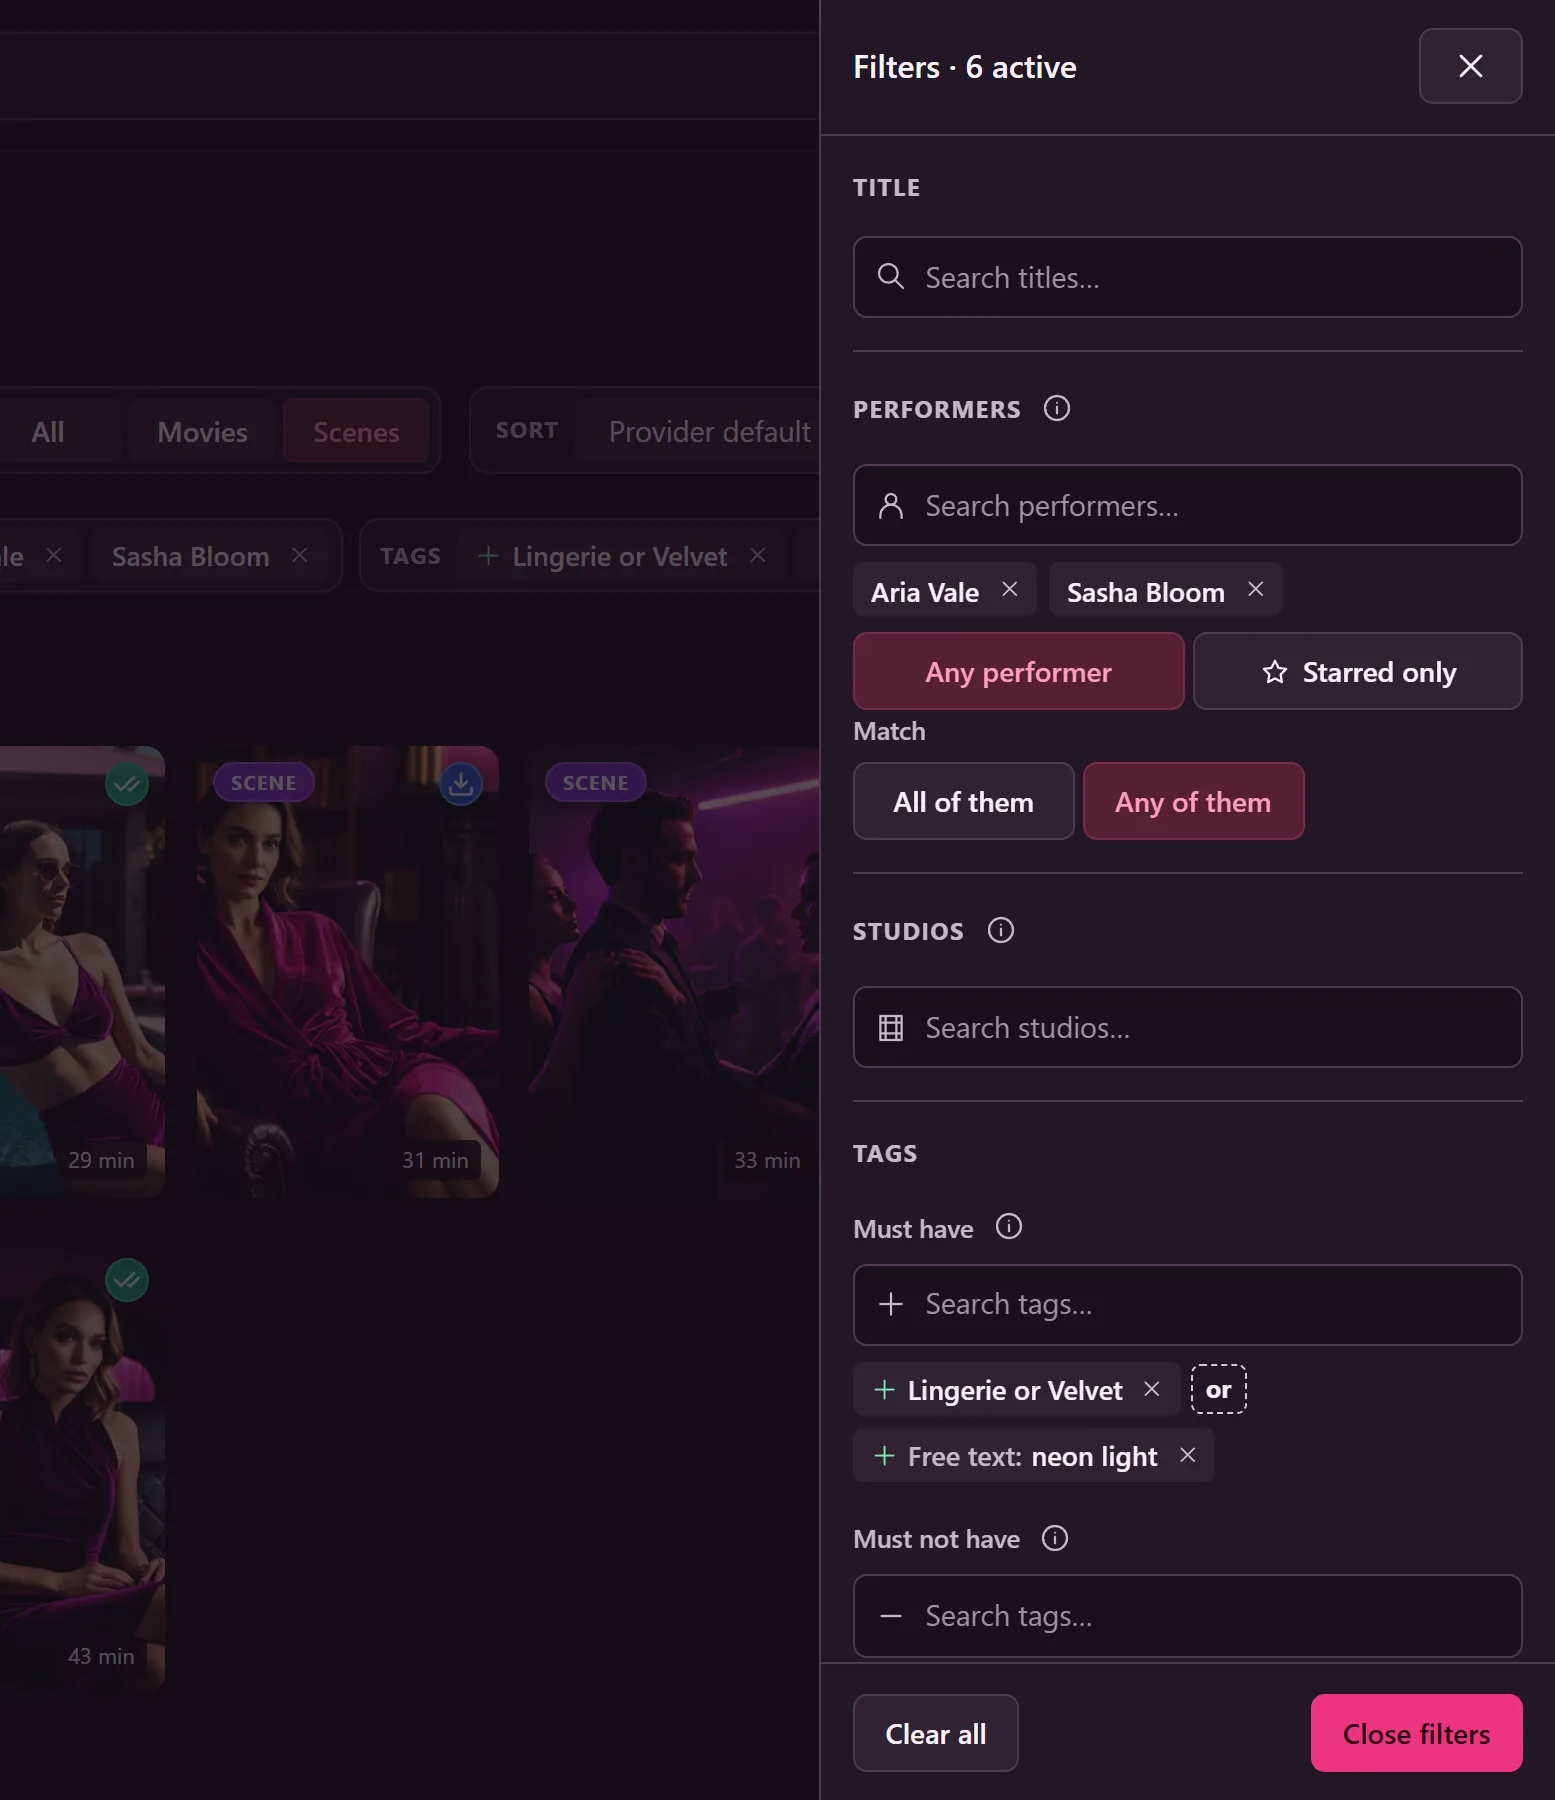
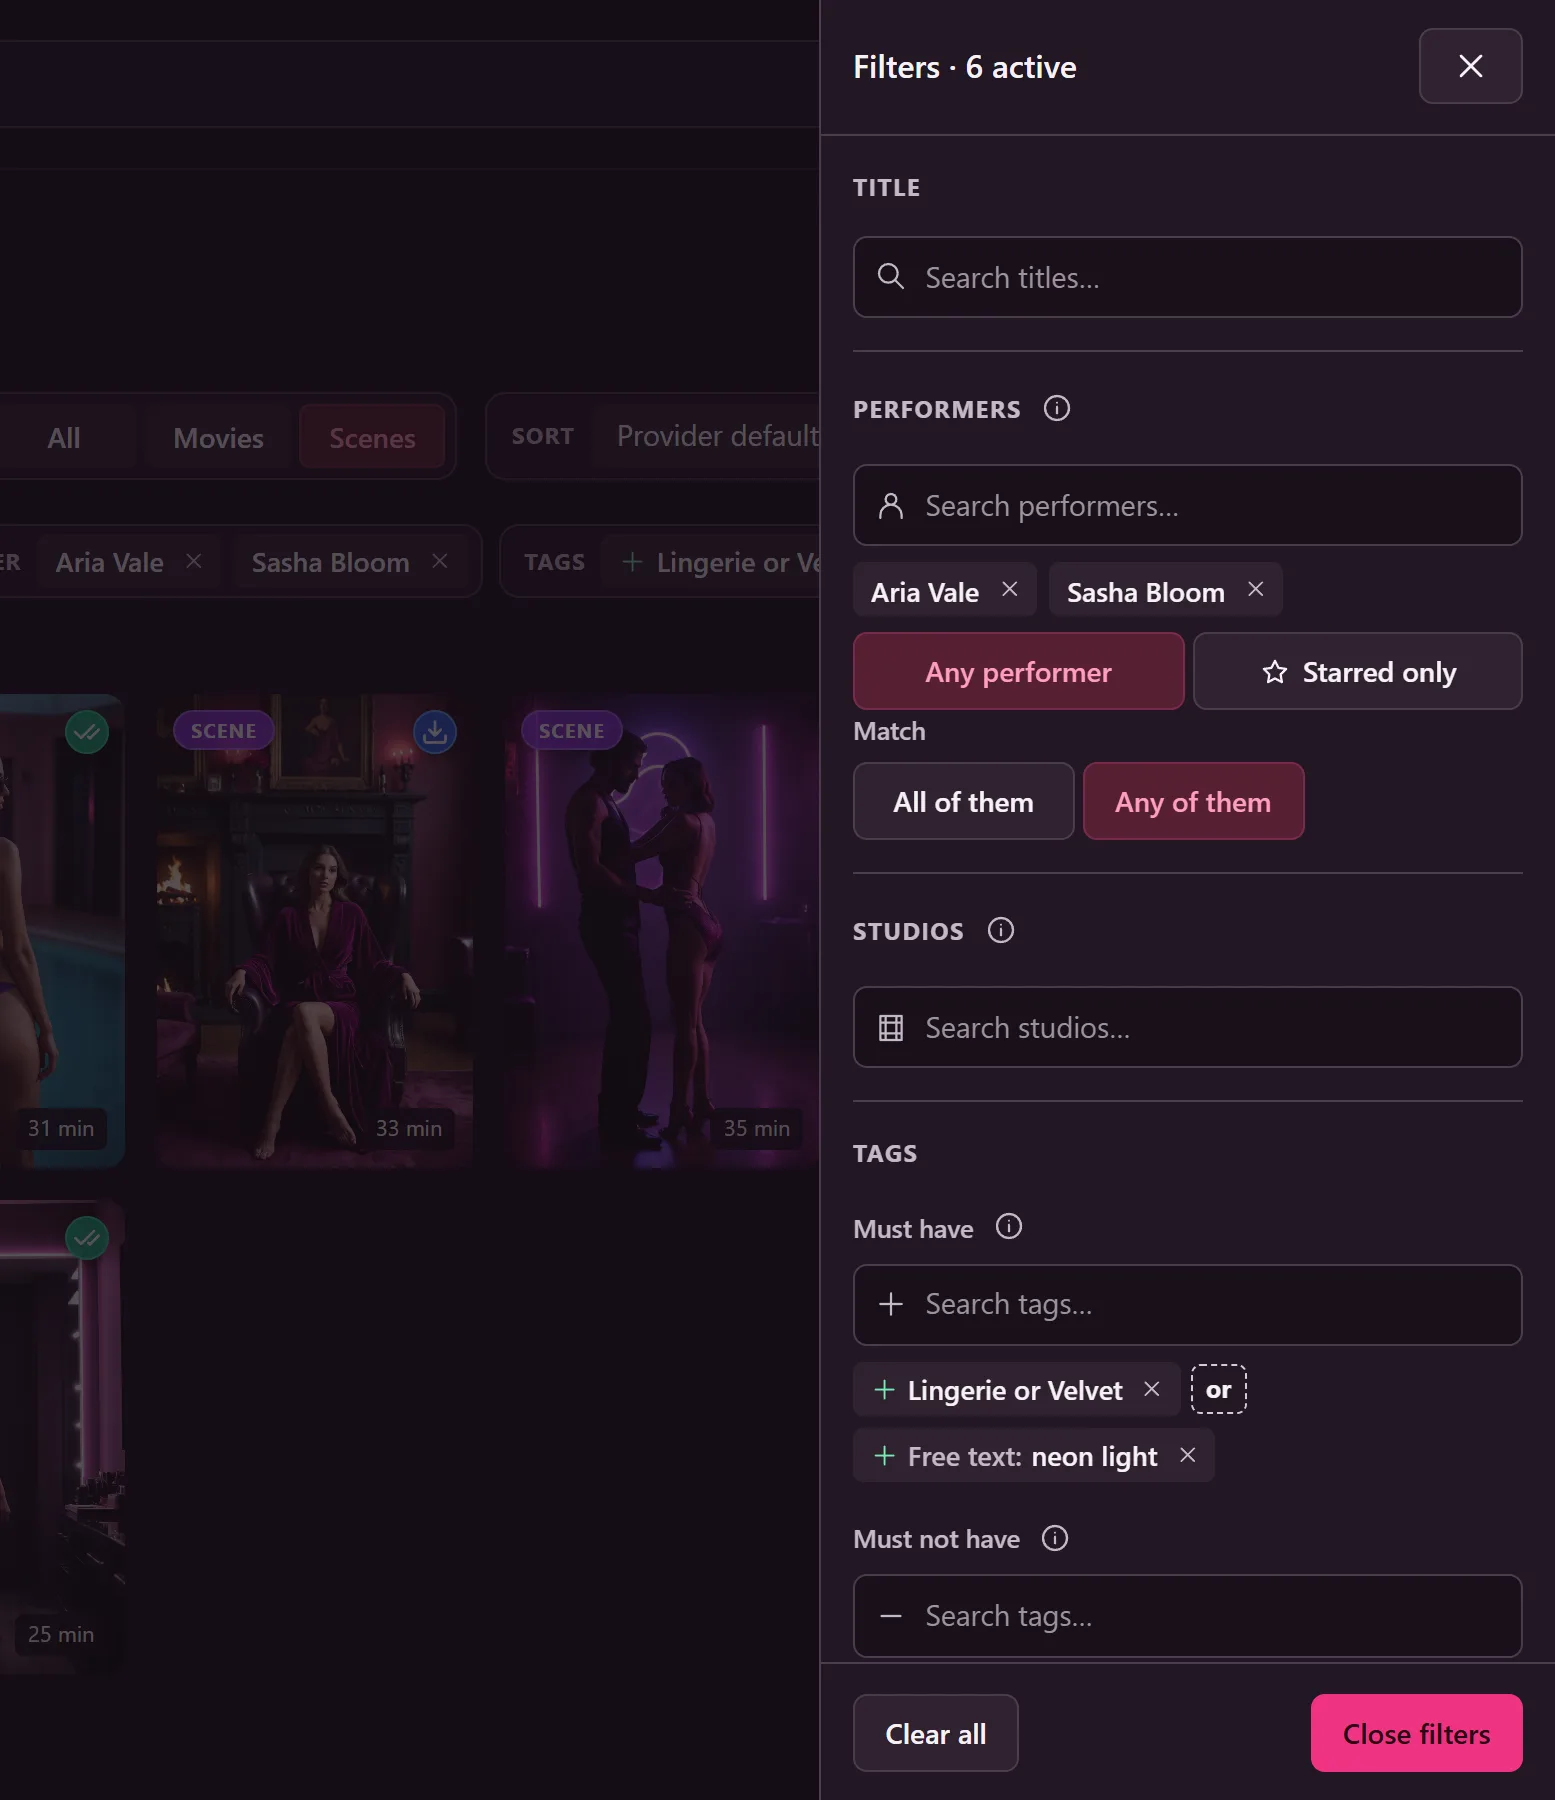
docs(site): show v0.45.0 with the new art in the landing-page screenshots
The landing page links the latest release, so the seven screenshots now
come from a v0.45.0 build, made with bun run shots -- --app <release>.

The art set is new: the original pictures were lost. Two held pictures
(scene-bath, movie-sofa) were generated again, and scene-neon uses an
extra. The art rule now allows lingerie, swimwear and rear views, and
still excludes nudity and sexual acts, because the page has no age check.

diff --git a/scripts/screenshots/README.md b/scripts/screenshots/README.md
@@ -56,8 +56,10 @@ the full list with a short description of each picture:
 - People: `performer-aria-vale`, `performer-dane-mercer`,
   `performer-sasha-bloom`, `avatar-admin`
 
-Use only safe-for-work images that you have the right to publish. The
-first set came from ComfyUI (DreamShaper XL Turbo).
+Use only images that you have the right to publish. Lingerie, swimwear
+and rear views are allowed. Nudity and sexual acts are not, because the
+page has no age check. Only adults may appear. The current set came from
+ComfyUI (DreamShaper XL Turbo).
 
 ## Run
 
